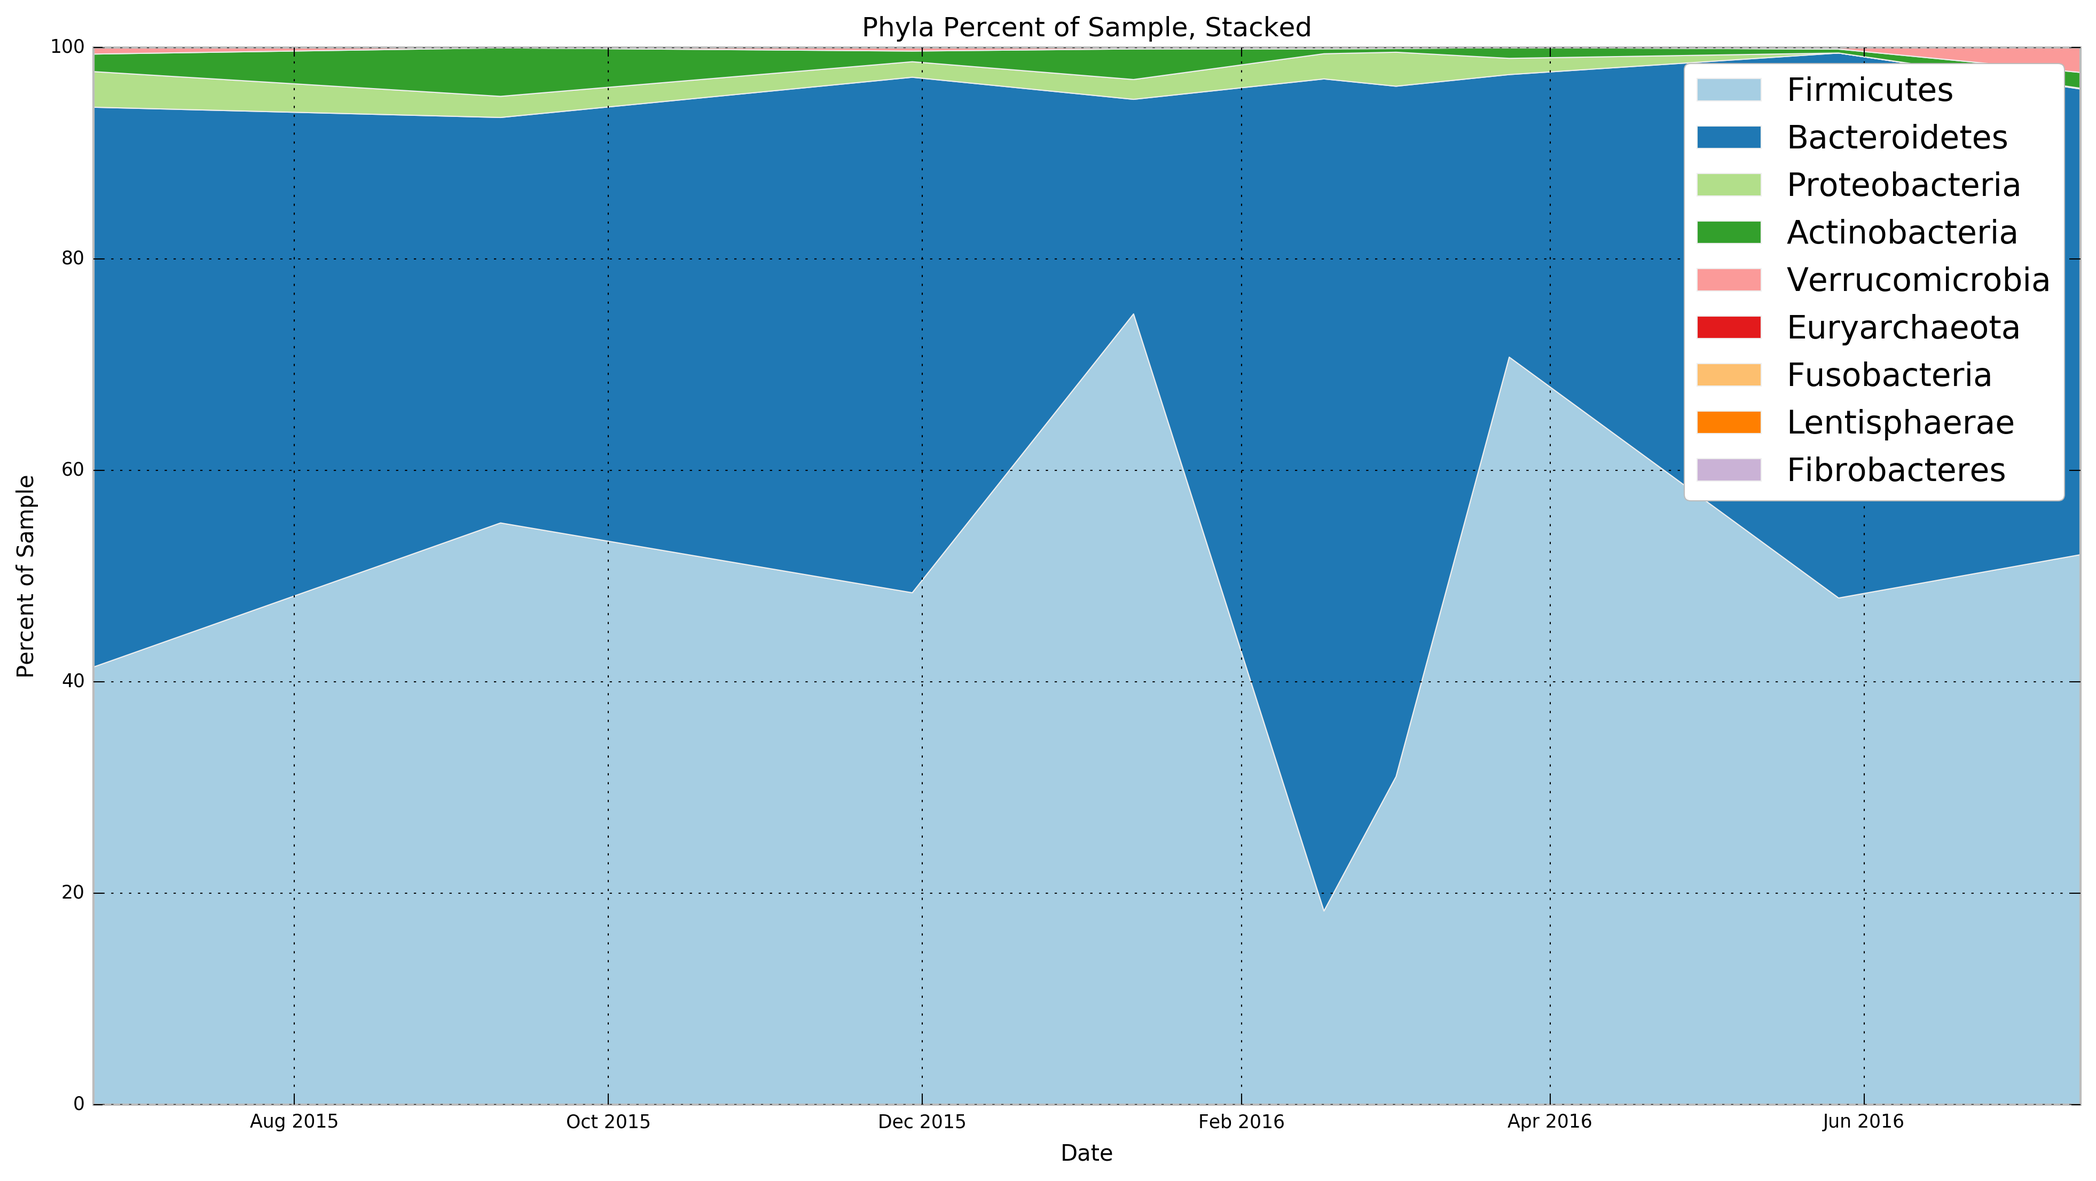
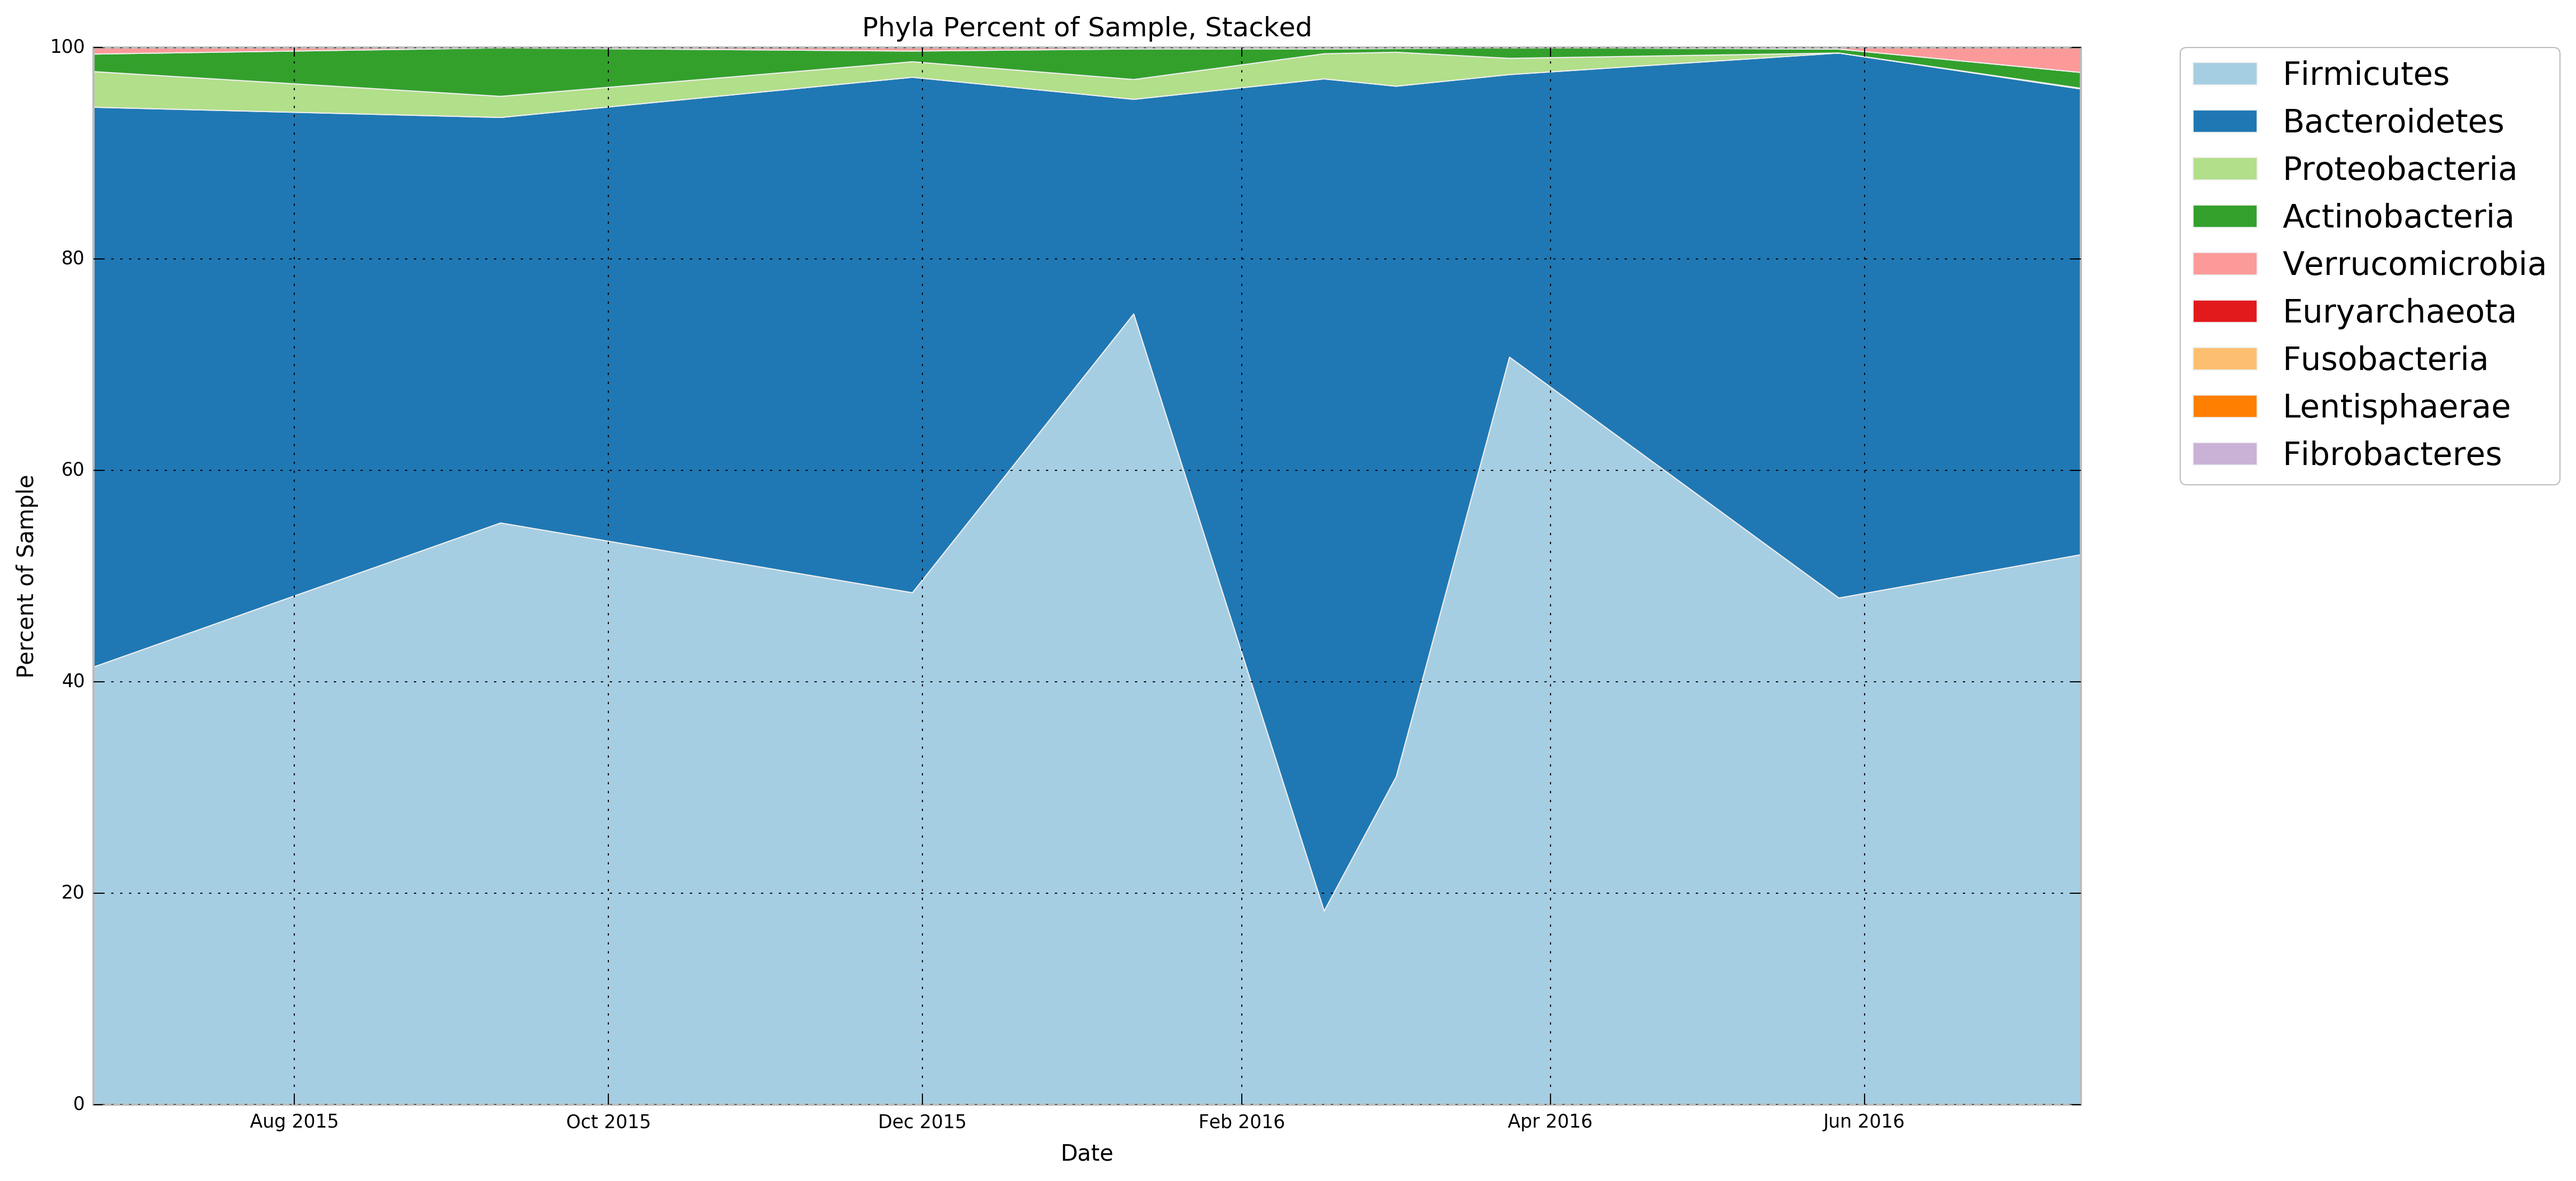
Moved legend outside the plots

diff --git a/code/main.py b/code/main.py
@@ -2,29 +2,29 @@ import glob
 import os
 import sys
 import csv
+import json
 
 import numpy as np
 import scipy as sp
 import scipy.signal
 
 import matplotlib
-
 import matplotlib.pyplot as plt
-import matplotlib
 
-
+import datetime
+from cycler import cycler
+    
+    
 def stackplotTest():
-    import numpy as np
-    import matplotlib.pyplot as plt
-    import datetime
-    from cycler import cycler
+
     
-    import json
+    #---------------------------------------------------------------------------
+    # Directory of where your json files are
+    baseDir = r'C:\Users\idg101\Desktop\New folder\repo\ubiome_longitudinal_analysis\sample_data'
+    #---------------------------------------------------------------------------
     
-    # get list of phyla
-    baseDir = r'C:\Users\Isaac\Desktop\github\ubiome\ubiome_longitudinal_analysis\sample_data'
-        
-    fn = glob.glob(os.path.join(r'C:\Users\Isaac\Desktop\github\ubiome\ubiome_longitudinal_analysis\sample_data','*.json'))
+    # Get all applicable files
+    fn = glob.glob(os.path.join(baseDir,'*.json'))
     
     # Sort files by time
     samplingTime = []
@@ -88,8 +88,13 @@ def stackplotTest():
     
     phyla = [ phyla[i] for i in order]
 
-    plt.stackplot(rr, r)
-    plt.legend(phyla)
+    # ----------------------------------
+    # Phyla-level plots
+    # ----------------------------------
+    # Stack plot
+    plt.stackplot(rr, r)    
+    #plt.legend(phyla)
+    plt.legend(phyla, bbox_to_anchor=(1.05, 1), loc=2, borderaxespad=0.)
     plt.ylim([0,100])
     plt.title('Phyla Percent of Sample, Stacked')
     plt.ylabel('Percent of Sample')
@@ -105,16 +110,16 @@ def stackplotTest():
     plt.plot(rr, r[fIdx,:] / r[bIdx,:]);
     plt.savefig(os.path.join(baseDir, 'Firmicutes to Bacteroidetes Ratio.png'))
     
-    #  version
+    # Phyla percent
     plt.clf()
     plt.plot(rr, r.T);
     plt.title('Phyla Percent of Sample')
     plt.ylabel('Percent of Sample')
     plt.xlabel('Date')
     plt.ylim([0,100])
-    plt.legend(phyla)
+    plt.legend(phyla, bbox_to_anchor=(1.05, 1), loc=2, borderaxespad=0.)
     plt.savefig(os.path.join(baseDir, 'phyla percent of sample.png'))    
-    
+    # ----------------------------------
 
     
     allData = {}
@@ -157,7 +162,6 @@ def stackplotTest():
                         family = allData[tmp]['tax_name']
                         break    
                 genii.append(phylum +'-'+ family + '-'+ k['tax_name'])
-                #genii.append(k['tax_name'])
 
     genii = sorted(list(set(genii)))    
     
@@ -184,7 +188,8 @@ def stackplotTest():
     c.append(p['Firmicutes-Leuconostocaceae-Leuconostoc'])
     c.append(p['Firmicutes-Streptococcaceae-Lactococcus'])
     plt.stackplot(rr, c)
-    plt.legend(['Actinobacteria-Bifidobacteriaceae-Bifidobacterium', 'Firmicutes-Lactobacillaceae-Lactobacillus', 'Firmicutes-Leuconostocaceae-Leuconostoc', 'Firmicutes-Streptococcaceae-Lactococcus'])
+    plt.legend(['Actinobacteria-Bifidobacteriaceae-Bifidobacterium', 'Firmicutes-Lactobacillaceae-Lactobacillus', 'Firmicutes-Leuconostocaceae-Leuconostoc', 'Firmicutes-Streptococcaceae-Lactococcus'], \
+               bbox_to_anchor=(1.05, 1), loc=2, borderaxespad=0.)
     plt.xlabel('Sample Date')
     plt.savefig(os.path.join(baseDir, 'Percentage of Probiotic Strains.png'))
     
@@ -257,7 +262,7 @@ def stackplotTest():
     plt.title('Gram +/-')
     plt.stackplot(rr, np.row_stack((gp,gn,gu)));
     plt.xlabel('Sample Date')
-    plt.legend(['Gram+', 'Gram-', 'Gram Unknown'])
+    plt.legend(['Gram+', 'Gram-', 'Gram Unknown'], bbox_to_anchor=(1.05, 1), loc=2, borderaxespad=0.)
     plt.savefig(os.path.join(baseDir, 'gram pos neg - stacked.png'))
     
     r = []
@@ -312,7 +317,7 @@ def stackplotTest():
     
     plt.clf()
     plt.stackplot(rr, r)
-    plt.legend(cls)
+    plt.legend(family, bbox_to_anchor=(1.05, 1), loc=2, borderaxespad=0.)
     plt.ylim([0,100])
     plt.title('Family Percent of Sample, Stacked')
     plt.ylabel('Percent of Sample')
@@ -390,7 +395,7 @@ def stackplotTest():
         c.append(p[k])
     plt.stackplot(rr, c)
     plt.xlabel('Sample Date')
-    plt.legend(pathogenicStrains)
+    plt.legend(pathogenicStrains, bbox_to_anchor=(1.05, 1), loc=2, borderaxespad=0.)
     plt.savefig(os.path.join(baseDir, 'pathogenic strains - stacked.png'))
     
 
@@ -405,7 +410,7 @@ def stackplotTest():
     plt.ylabel('Percent of Sample')
     plt.xlabel('Date')
     plt.ylim([0,np.sum(rsub,axis=0).max()]); #plt.yscale('log')
-    plt.legend(leg[::-1])
+    plt.legend(leg[::-1], bbox_to_anchor=(1.05, 1), loc=2, borderaxespad=0.)
     plt.savefig(os.path.join(baseDir, 'top 10 species percent of sample - stacked.png'))
     
     # SHow the least dominate 10 species
@@ -419,7 +424,7 @@ def stackplotTest():
     plt.ylabel('Percent of Sample')
     plt.xlabel('Date')
     plt.ylim([0,np.sum(rsub,axis=0).max()]); #plt.yscale('log')
-    plt.legend(leg[::-1])
+    plt.legend(leg[::-1], bbox_to_anchor=(1.05, 1), loc=2, borderaxespad=0.)
     plt.savefig(os.path.join(baseDir, 'bottom 10 species percent of sample - stacked.png'))
     
     # number of species counts
